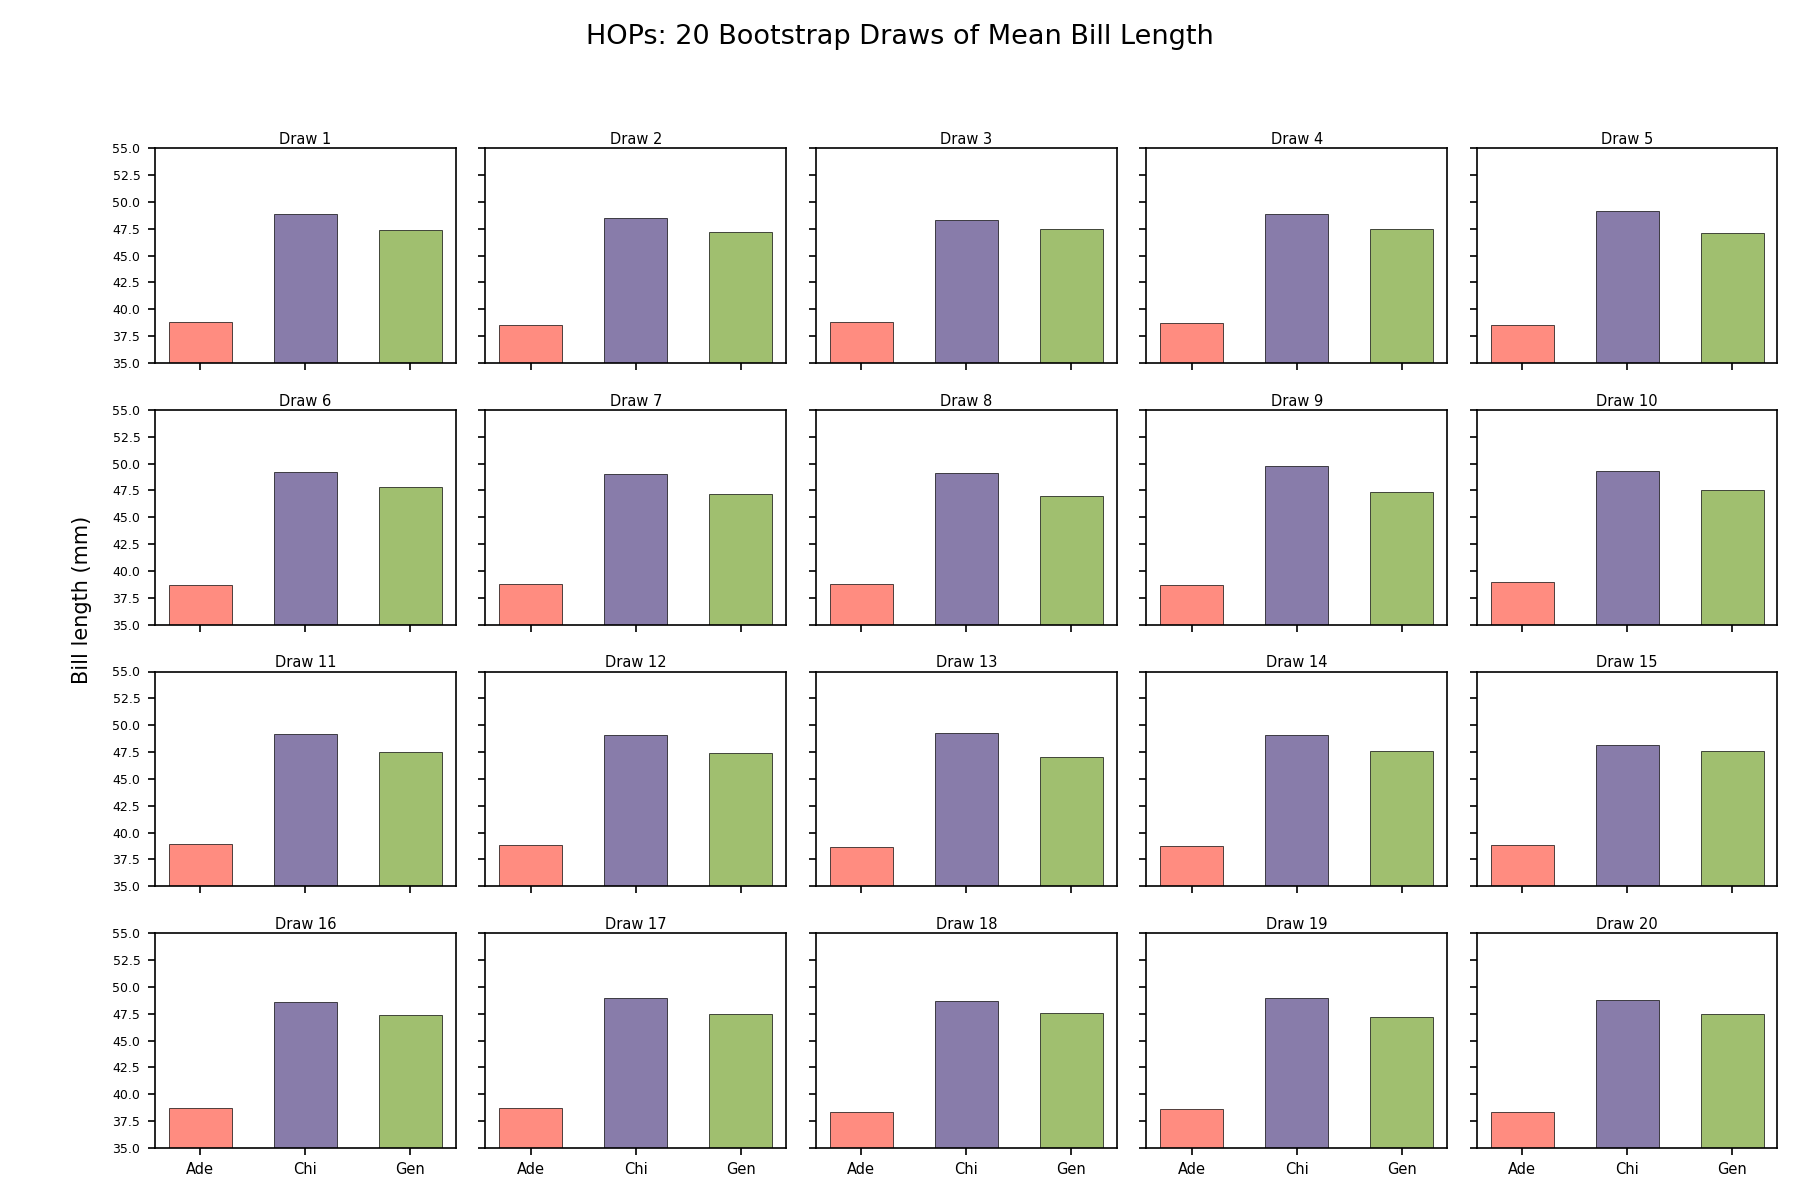
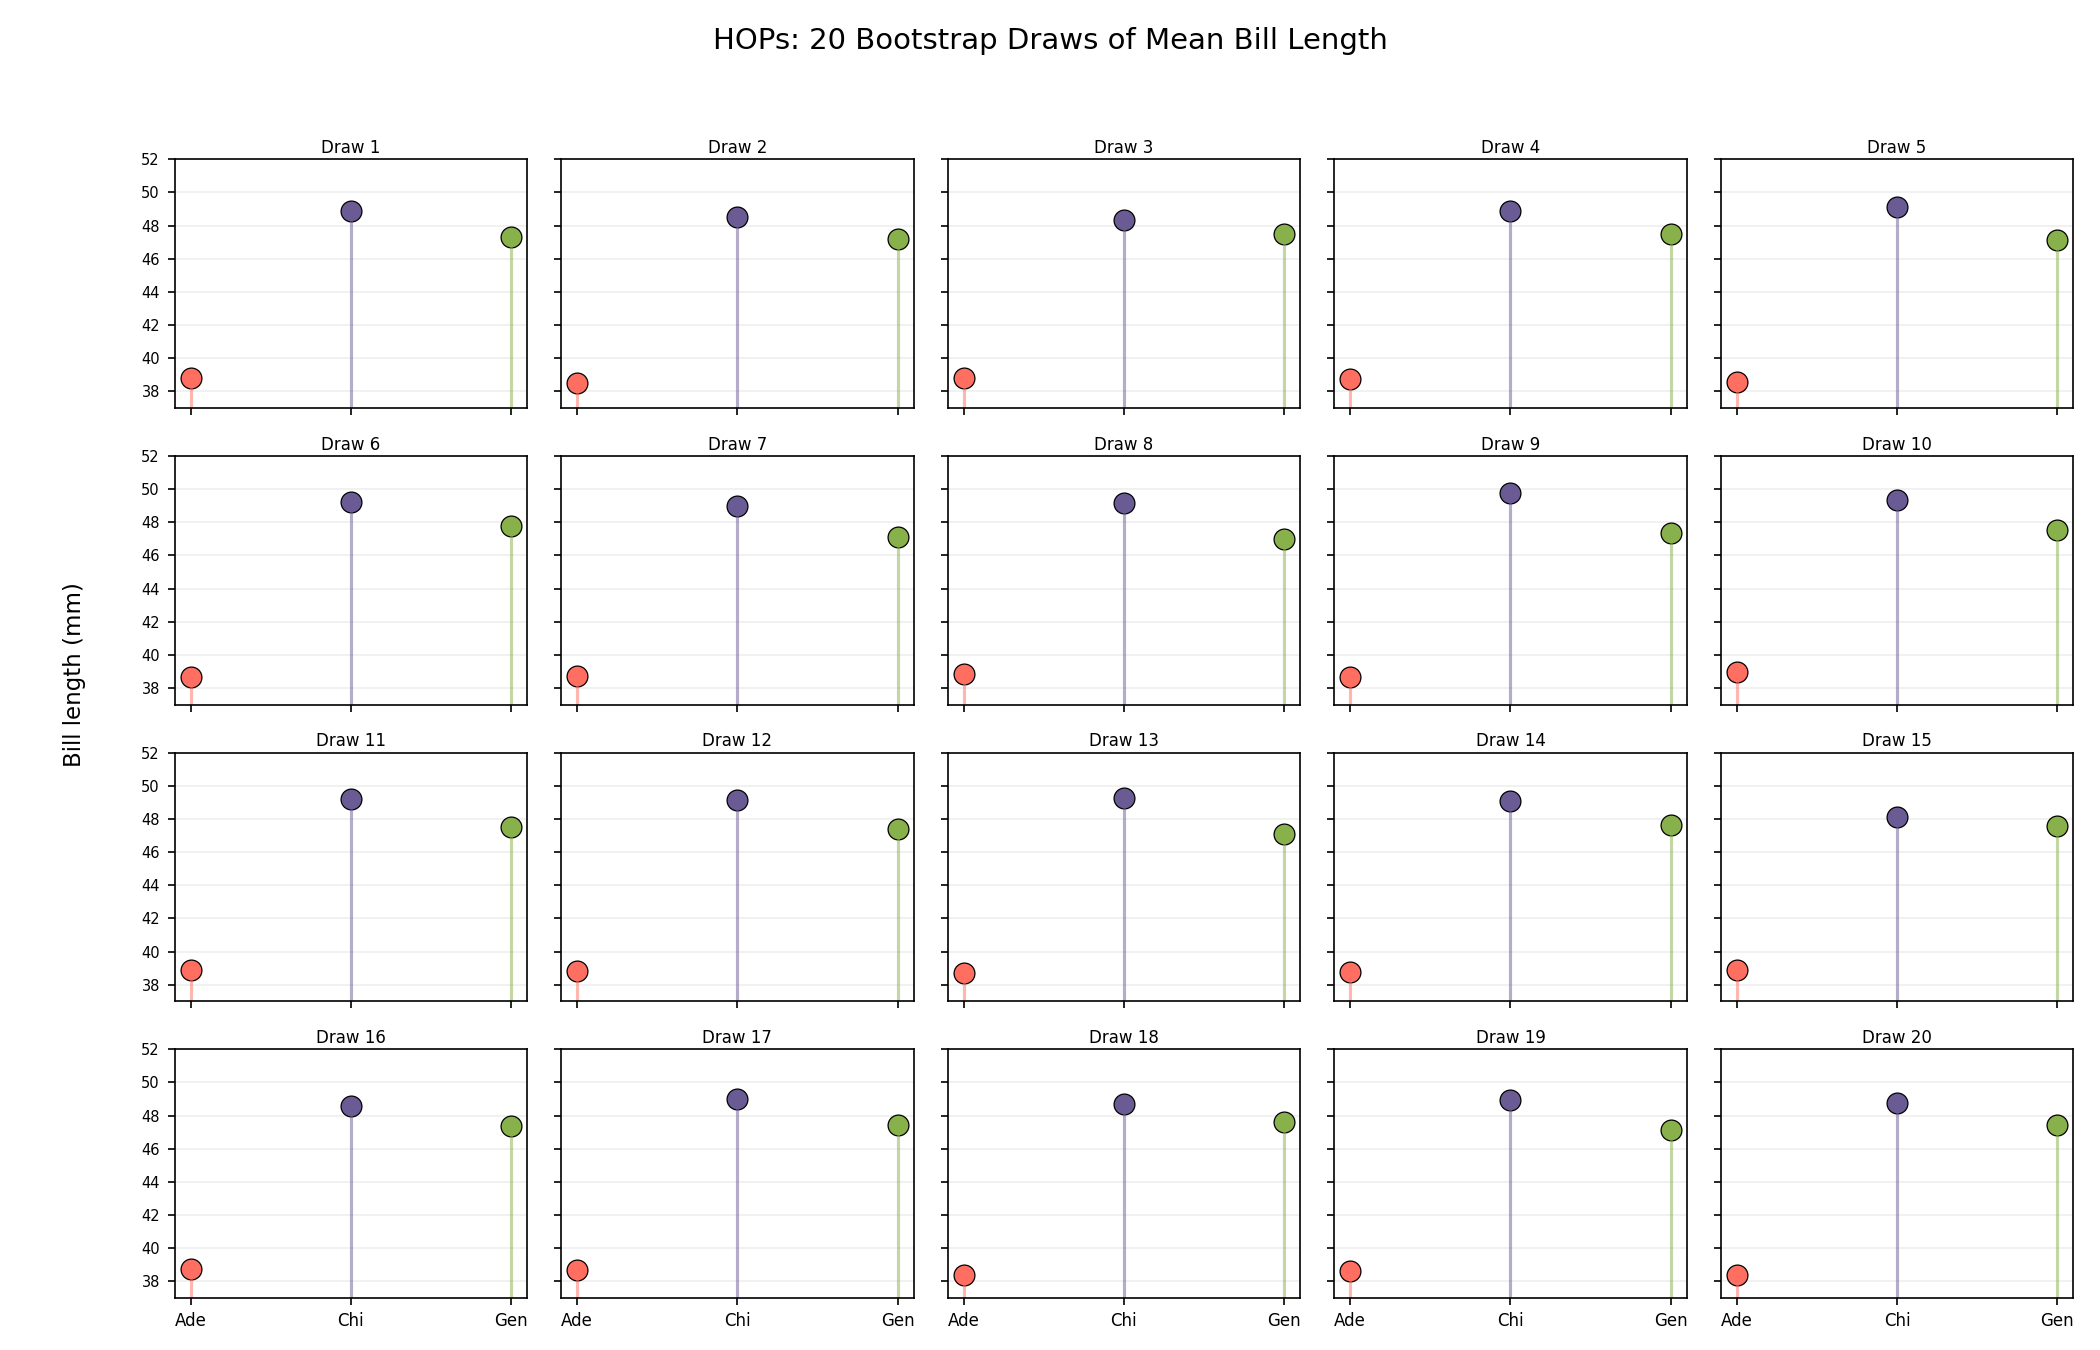
Rework HOPs grid: switch to dot/lollipop plots, tighten y-axis

diff --git a/stimuli/generate_stimuli.py b/stimuli/generate_stimuli.py
@@ -102,9 +102,9 @@ def make_violin_chart(data):
 
 
 def make_hops_grid(data, n_draws=20):
-    """Static HOPs: grid of bootstrap sample means."""
+    """Static HOPs: grid of bootstrap sample means as dot plots."""
     random.seed(SEED)
-    fig, axes = plt.subplots(4, 5, figsize=(12, 8), sharex=True, sharey=True)
+    fig, axes = plt.subplots(4, 5, figsize=(14, 9), sharex=True, sharey=True)
     axes_flat = axes.flatten()
 
     for idx in range(n_draws):
@@ -116,20 +116,24 @@ def make_hops_grid(data, n_draws=20):
             sample = [random.choice(vals) for _ in range(len(vals))]
             boot_means.append(sum(sample) / len(sample))
 
-        ax.bar(xs, boot_means, width=0.6,
-               color=[COLORS[sp] for sp in SPECIES_ORDER],
-               edgecolor="black", linewidth=0.4, alpha=0.8)
-        ax.set_ylim(35, 55)
-        ax.set_xticks(xs)
+        for i, (x, m) in enumerate(zip(xs, boot_means)):
+            ax.plot(x, m, "o", color=COLORS[SPECIES_ORDER[i]],
+                    markersize=10, markeredgecolor="black", markeredgewidth=0.6)
+            ax.vlines(x, 37, m, color=COLORS[SPECIES_ORDER[i]],
+                      linewidth=1.5, alpha=0.5)
+        ax.set_ylim(37, 52)
+        ax.set_xticks(list(xs))
         if idx >= 15:
-            ax.set_xticklabels([s[:3] for s in SPECIES_ORDER], fontsize=7)
+            ax.set_xticklabels([s[:3] for s in SPECIES_ORDER], fontsize=8)
         else:
             ax.set_xticklabels([])
-        ax.tick_params(axis="y", labelsize=6)
-        ax.set_title(f"Draw {idx+1}", fontsize=7, pad=2)
+        ax.tick_params(axis="y", labelsize=7)
+        ax.set_title(f"Draw {idx+1}", fontsize=8, pad=3)
+        ax.yaxis.grid(True, alpha=0.2)
 
-    fig.suptitle("HOPs: 20 Bootstrap Draws of Mean Bill Length", fontsize=13)
-    fig.text(0.04, 0.5, "Bill length (mm)", va="center", rotation="vertical")
+    fig.suptitle("HOPs: 20 Bootstrap Draws of Mean Bill Length", fontsize=14)
+    fig.text(0.03, 0.5, "Bill length (mm)", va="center", rotation="vertical",
+             fontsize=11)
     fig.tight_layout(rect=[0.05, 0, 1, 0.95])
     fig.savefig(os.path.join(OUT_DIR, "hops_grid.png"), dpi=150)
     plt.close(fig)
